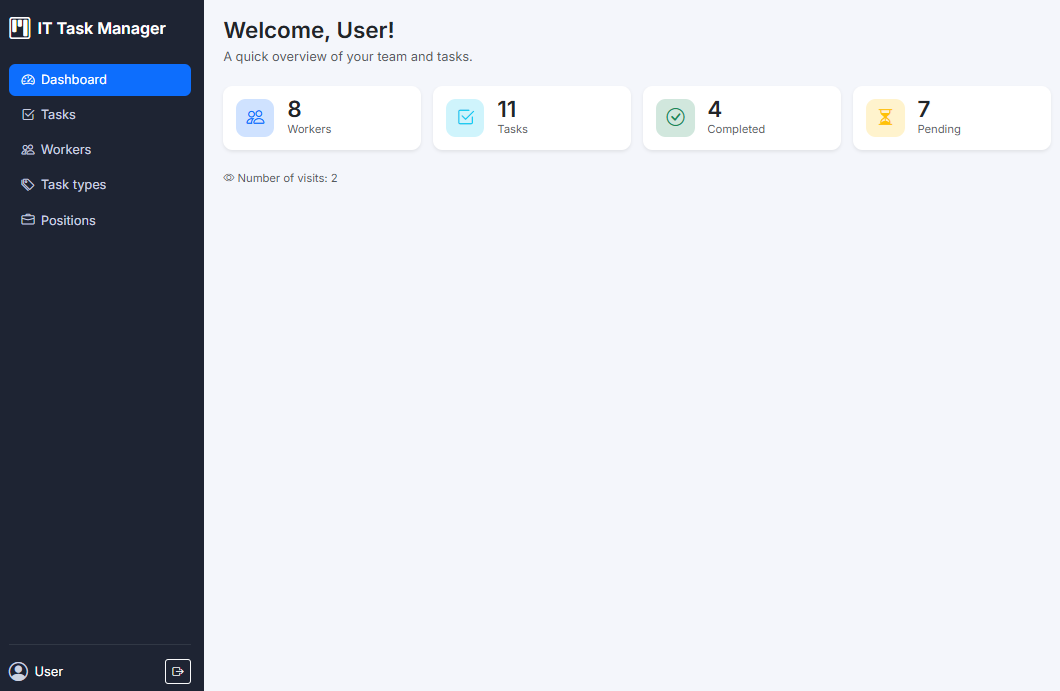
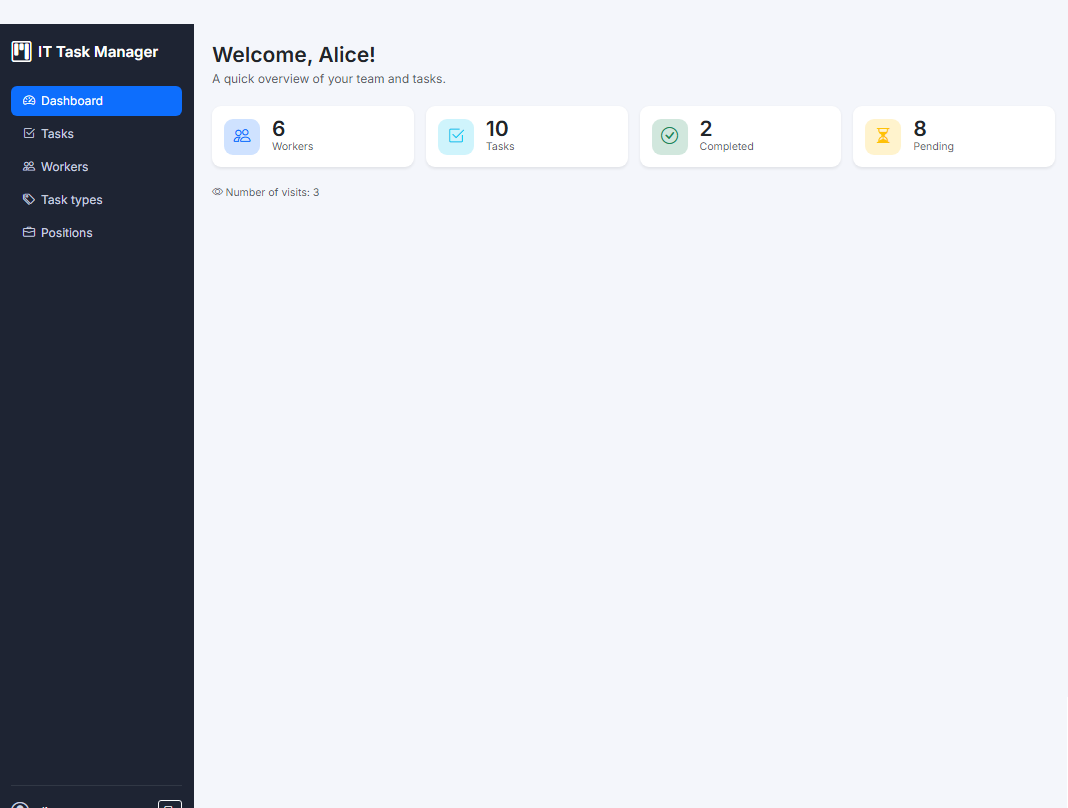
Update README with dashboard and login screenshots

diff --git a/README.md b/README.md
@@ -1,6 +1,6 @@
 # IT Task Manager
 
-![CI](https://github.com/<your-username>/<repo-name>/actions/workflows/ci.yml/badge.svg)
+![CI](https://github.com/KostiantynFirst/it-task-manager/actions/workflows/ci.yml/badge.svg)
 
 A web application for IT companies where team members (developers, designers,
 project managers, QA engineers, DevOps) create tasks, assign them to colleagues
